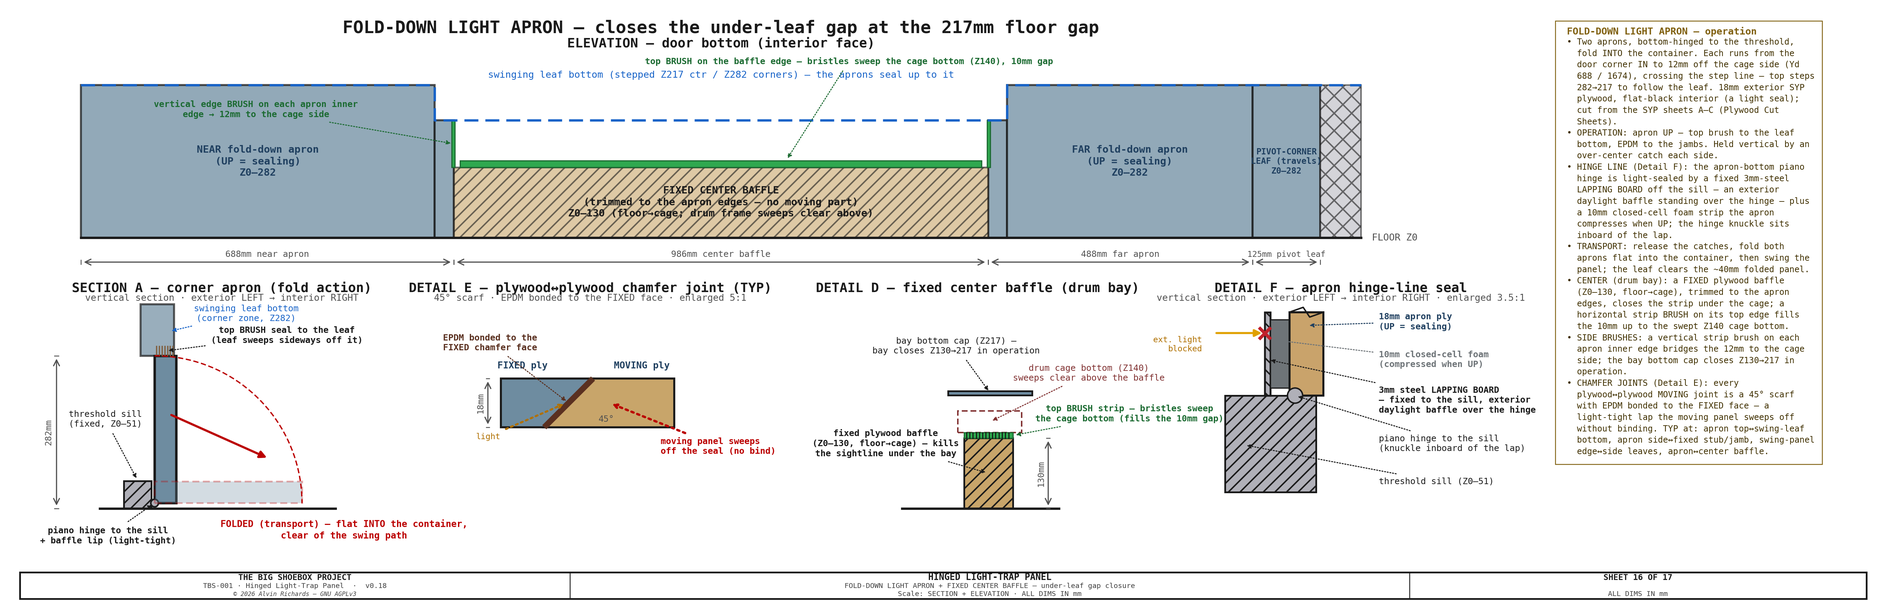
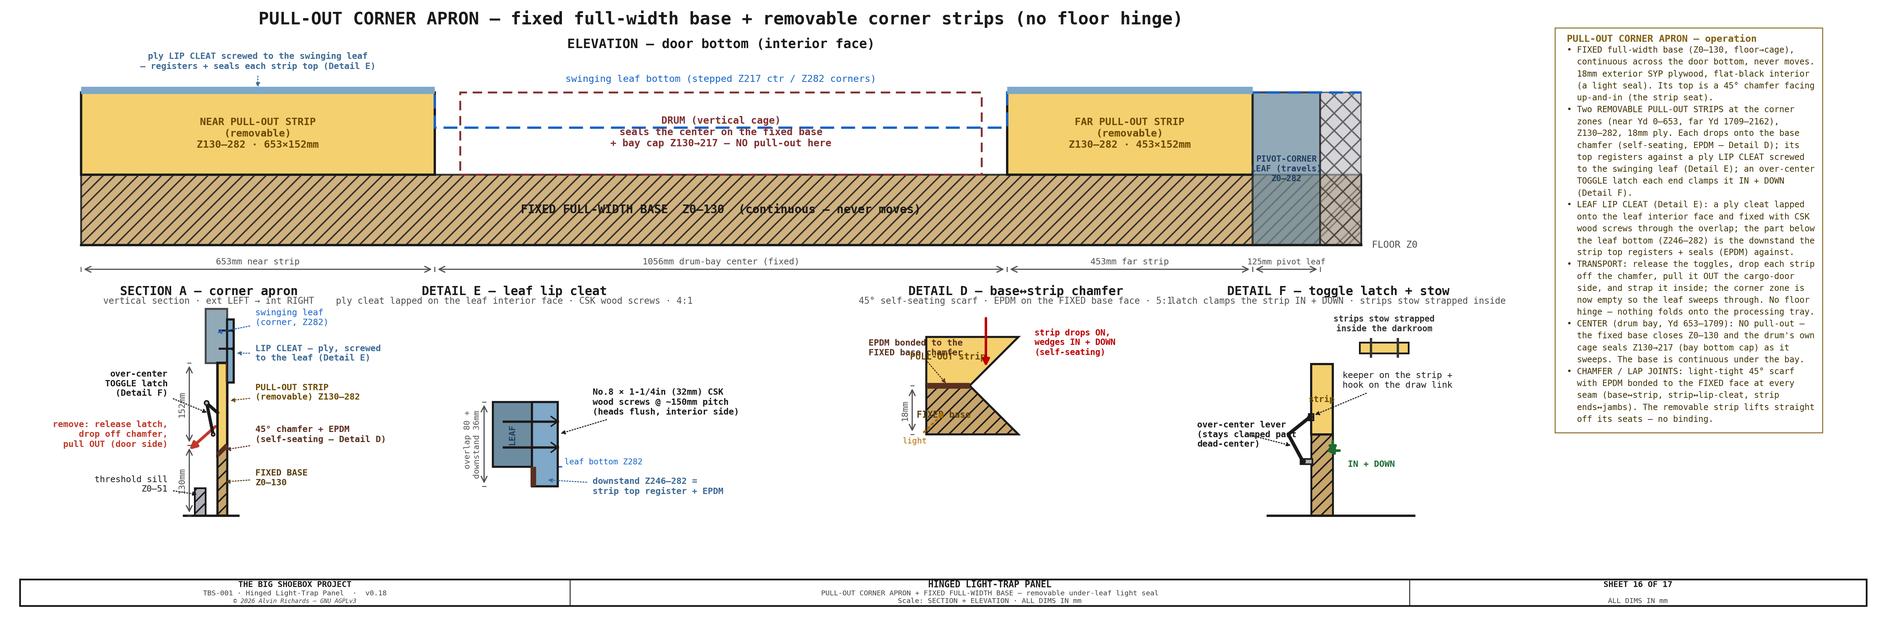
Hinged-panel Sheet 16: redesign as a PULL-OUT corner apron (replaces the fold-down)
Fixed full-width base (Z0-130, continuous) + two removable corner pull-out
strips (Z130-282): each self-seats on the base's 45-deg chamfer (EPDM), its top
registers against a ply lip cleat screwed to the swinging leaf (CSK wood
screws), and an over-center toggle latch clamps it in + down. For the transport
swing the strips pull OUT the cargo-door side and stow strapped inside, so the
leaf sweeps the empty corner zone - no floor hinge, nothing over the processing
tray (the fold-down reached X310, onto the tray at X280). Drum-bay center keeps
the fixed base + the drum's own sweep.

2D Sheet 16 only. The report narrative, parts.py, costing, shopping/cost-
breakdown, plywood-cut-sheets and the 3D model still describe the fold-down and
are the owed cascade (RELEASE [Unreleased] + TODO).

diff --git a/src/generators/generate_hingepanel_diagram.py b/src/generators/generate_hingepanel_diagram.py
@@ -2587,23 +2587,33 @@ def sheet15():
 
 
 # ═══════════════════════════════════════════════════════════════════════════════
-# SHEET 16  —  Fold-Down Light Apron (closes the 217mm under-leaf gap that the
-#   floor-gap raise opened). TWO fold-down aprons at the corner zones (bottom-hinged
-#   to the threshold, fold INTO the container for the transport swing) + a FIXED
-#   center baffle under the drum bay (the drum sweeps through, so no moving part).
+# SHEET 16  —  Pull-Out Corner Apron (closes the under-leaf gap at the corner
+#   zones without a floor hinge). A FIXED full-width base (Z0–130, continuous,
+#   never moves) + two REMOVABLE pull-out STRIPS at the corner zones (Z130–282),
+#   each wedged into the base's 45° chamfer (self-seating + EPDM), its top
+#   registered against a ply LIP CLEAT screwed to the swinging leaf, and clamped
+#   by an over-center toggle latch. For the transport swing the strips are
+#   released and pulled OUT (cargo-door side) so the leaf sweeps through the empty
+#   corner zone; they stow strapped inside. The drum-bay center seals on the fixed
+#   base + the drum's own sweep (no pull-out there). This REPLACES the earlier
+#   fold-down apron, which folded onto the processing tray (CORNER_BOT=282 → the
+#   folded leaf reached X310, over the tray at X280).
 # ═══════════════════════════════════════════════════════════════════════════════
 def sheet16():
     from tbs_constants import (PANEL_FLOOR_GAP_SIDE as ATOP, PANEL_FLOOR_GAP as PBOT_CTR,
                                PANEL_CORNER_YD_L as jL, PANEL_CORNER_YD_R as jR, LT_CAGE_BOT,
-                               APRON_IN_L, APRON_IN_R, APRON_CAGE_GAP,
                                DRUM_CAGE_YD_L as cgL, DRUM_CAGE_YD_R as cgR, APRON_FIX_W)
     WID  = PW
-    STUB = WID - APRON_FIX_W     # 2162 — far fold-down apron ends here; beyond it is the TRAVELLING pivot-corner leaf
-    THR  = 51        # threshold sill top Z
-    AT   = 40        # apron thickness (12mm exterior BC plywood, flat-black interior)
-    BAYB = 217       # bay bottom cap Z
-    BAF_TOP = LT_CAGE_BOT - 10   # 130 — baffle top, 10mm under the swept drum-cage bottom (Z140)
-    BRZ  = 51        # threshold top (baffle base)
+    STUB = WID - APRON_FIX_W     # 2162 — far pull-out strip ends here; beyond it is the TRAVELLING pivot-corner leaf
+    THR  = 51                    # threshold sill top Z
+    BASE_TOP = LT_CAGE_BOT - 10  # 130 — fixed base top, 10mm under the swept drum-cage bottom (Z140)
+    SH   = ATOP - BASE_TOP       # 152 — pull-out strip height (base top → corner leaf bottom Z282)
+    BAYB = 217                   # bay bottom cap Z (center)
+
+    C_PULL  = "#F4D06F"          # removable pull-out strip (distinct from fixed ply)
+    C_FIXP  = "#C8A56A"          # fixed plywood base
+    C_CLEAT = "#7FA8C9"          # ply lip cleat (screwed to the leaf)
+    C_EPDM  = "#5A3020"          # EPDM seal
 
     fig, ax = plt.subplots(figsize=(23, 11))
     fig.patch.set_facecolor(BG); ax.set_facecolor(BG)
@@ -2611,162 +2621,181 @@ def sheet16():
     ax.set_xlim(-130, WID + 950)
     ax.set_ylim(-170, 920)
 
-    ax.text(WID / 2, 878, "FOLD-DOWN LIGHT APRON — closes the under-leaf gap at the 217mm floor gap",
+    ax.text(WID / 2, 908, "PULL-OUT CORNER APRON — fixed full-width base + removable corner strips (no floor hinge)",
             ha="center", fontsize=12, fontweight="bold", color=C_OUT, **FONT)
 
     # ══ ELEVATION (Yd–Z) — door-bottom layout, interior face (top band) ══
     ez = 500
-    ax.text(WID / 2, ez + ATOP + 70, "ELEVATION — door bottom (interior face)", ha="center", fontsize=9, fontweight="bold", color=C_OUT, **FONT)
+    ax.text(WID / 2, ez + ATOP + 82, "ELEVATION — door bottom (interior face)", ha="center", fontsize=9, fontweight="bold", color=C_OUT, **FONT)
     ax.plot([0, WID], [ez, ez], color=C_OUT, lw=1.6)
     ax.text(WID + 20, ez, "FLOOR Z0", va="center", ha="left", fontsize=6.5, color=C_DIM, **FONT)
-    # Fold-down aprons — each extends INBOARD past the center-zone step line to a brush gap off the cage
-    # (Yd APRON_IN_L / APRON_IN_R); its top steps 282 (corner) → 217 (center ext) to follow the leaf bottom.
-    for y0, y1, top, lbl in [(0, jL, ATOP, "NEAR fold-down apron"), (jL, APRON_IN_L, PBOT_CTR, None),
-                             (APRON_IN_R, jR, PBOT_CTR, None), (jR, STUB, ATOP, "FAR fold-down apron")]:
-        ax.add_patch(Rectangle((y0, ez), y1 - y0, top, fc=C_PLASTIC, ec=C_OUT, lw=1.4, alpha=0.75))
-        if lbl:
-            ax.text((y0 + y1) / 2, ez + top * 0.5, f"{lbl}\n(UP = sealing)\nZ0–{int(top)}", ha="center", va="center",
-                    fontsize=7, fontweight="bold", color="#204060", **FONT)
-    # pivot-corner leaf TRAVELS with the swinging panel up to the pivot line; tiny fixed past-pivot at the wall
+    # (1) FIXED full-width base Z0–130 — continuous, never moves
+    ax.add_patch(Rectangle((0, ez), WID, BASE_TOP, fc=C_FIXP, ec=C_OUT, lw=1.3, hatch="///", alpha=0.85))
+    ax.text(WID / 2, ez + BASE_TOP * 0.5, f"FIXED FULL-WIDTH BASE  Z0–{int(BASE_TOP)}  (continuous — never moves)",
+            ha="center", va="center", fontsize=8, fontweight="bold", color=C_OUT, **FONT)
+    # (2) PULL-OUT corner strips Z130–282 (removable) at the two corner zones
+    for y0, y1, lbl in [(0, jL, "NEAR PULL-OUT STRIP"), (jR, STUB, "FAR PULL-OUT STRIP")]:
+        ax.add_patch(Rectangle((y0, ez + BASE_TOP), y1 - y0, SH, fc=C_PULL, ec=C_OUT, lw=1.6))
+        ax.text((y0 + y1) / 2, ez + BASE_TOP + SH * 0.5,
+                f"{lbl}\n(removable)\nZ{int(BASE_TOP)}–{int(ATOP)} · {int(y1 - y0)}×{int(SH)}mm",
+                ha="center", va="center", fontsize=7, fontweight="bold", color="#6B4A00", **FONT)
+    # (3) CENTER drum bay — drum (vertical cage) seals Z130→217; NO pull-out here
+    ax.add_patch(Rectangle((cgL, ez + BASE_TOP), cgR - cgL, SH, fc="none", ec="#803030", lw=1.3, ls=(0, (5, 3))))
+    ax.text((cgL + cgR) / 2, ez + BASE_TOP + SH * 0.52,
+            "DRUM (vertical cage)\nseals the center on the fixed base\n+ bay cap Z130→217 — NO pull-out here",
+            ha="center", va="center", fontsize=6.8, fontweight="bold", color="#803030", **FONT)
+    # pivot-corner leaf TRAVELS with the swinging panel up to the pivot line; fixed past-pivot stub at the wall
     ax.add_patch(Rectangle((STUB, ez), PIVOT_YD - STUB, ATOP, fc=C_PLASTIC, ec=C_OUT, lw=1.4, alpha=0.75))
     ax.text((STUB + PIVOT_YD) / 2, ez + ATOP * 0.5, f"PIVOT-CORNER\nLEAF (travels)\nZ0–{int(ATOP)}", ha="center", va="center",
             fontsize=5.8, fontweight="bold", color="#204060", **FONT)
     ax.add_patch(Rectangle((PIVOT_YD, ez), WID - PIVOT_YD, ATOP, fc="#B8B8C0", ec=C_OUT, lw=1.0, hatch="xx", alpha=0.6))
-    ax.add_patch(Rectangle((APRON_IN_L, ez), APRON_IN_R - APRON_IN_L, BAF_TOP, fc="#C8A56A", ec=C_OUT, lw=1.2, hatch="///", alpha=0.6))
-    ax.text((APRON_IN_L + APRON_IN_R) / 2, ez + 66, f"FIXED CENTER BAFFLE\n(trimmed to the apron edges — no moving part)\nZ0–{int(BAF_TOP)} (floor→cage; drum frame sweeps clear above)", ha="center", va="center",
-            fontsize=7, fontweight="bold", color=C_OUT, **FONT)
-    # Horizontal strip brush on the baffle top edge → bristles sweep the cage bottom (Z140), 10mm gap.
-    ax.add_patch(Rectangle((cgL, ez + BAF_TOP), cgR - cgL, 12, fc="#2FA84F", ec="#1c6b32", lw=0.8))
-    leader(ax, ((cgL + cgR) / 2 + 120, ez + BAF_TOP + 12), (WID * 0.60, ez + ATOP + 44),
-           "top BRUSH on the baffle edge — bristles sweep the cage bottom (Z140), 10mm gap", col="#1c6b32", fw="bold", fs=6)
-    # Vertical strip brushes on the two apron inner edges → reach APRON_CAGE_GAP to the cage sides.
-    for yb in (APRON_IN_L - 4, APRON_IN_R - 2):
-        ax.add_patch(Rectangle((yb, ez + BAF_TOP), 6, PBOT_CTR - BAF_TOP, fc="#2FA84F", ec="#1c6b32", lw=0.8))
-    leader(ax, (APRON_IN_L, ez + (BAF_TOP + PBOT_CTR) / 2), (jL - 330, ez + PBOT_CTR + 20),
-           f"vertical edge BRUSH on each apron inner\nedge → {APRON_CAGE_GAP}mm to the cage side", col="#1c6b32", fw="bold", fs=6)
+    # ply LIP CLEAT screwed to the leaf — runs the corner zones, registers each strip top (Z286 band)
+    for y0, y1 in [(0, jL), (jR, STUB)]:
+        ax.plot([y0, y1], [ez + ATOP + 4, ez + ATOP + 4], color=C_CLEAT, lw=5, solid_capstyle="butt", zorder=6)
+    leader(ax, (jL * 0.5, ez + ATOP + 4), (jL * 0.5, ez + ATOP + 58),
+           "ply LIP CLEAT screwed to the swinging leaf\n— registers + seals each strip top (Detail E)", col="#3C6A96", fw="bold", fs=6)
+    # swinging leaf bottom (stepped Z217 ctr / Z282 corners) — the base + strips seal up to it
     ax.plot([0, jL, jL, jR, jR, WID], [ez + ATOP, ez + ATOP, ez + PBOT_CTR, ez + PBOT_CTR, ez + ATOP, ez + ATOP],
             color="#1763C8", lw=1.6, ls=(0, (6, 3)))
-    ax.text(WID / 2, ez + ATOP + 14, "swinging leaf bottom (stepped Z217 ctr / Z282 corners) — the aprons seal up to it",
+    ax.text(WID / 2, ez + ATOP + 20, "swinging leaf bottom (stepped Z217 ctr / Z282 corners)",
             ha="center", fontsize=6.6, color="#1763C8", **FONT)
-    draw_dim_h(ax, 0, APRON_IN_L, ez - 45, f"{int(APRON_IN_L)}mm near apron", offset=-12, fs=6, font=FONT)
-    draw_dim_h(ax, APRON_IN_L, APRON_IN_R, ez - 45, f"{int(APRON_IN_R - APRON_IN_L)}mm center baffle", offset=-12, fs=6, font=FONT)
-    draw_dim_h(ax, APRON_IN_R, STUB, ez - 45, f"{int(STUB - APRON_IN_R)}mm far apron", offset=-12, fs=6, font=FONT)
+    draw_dim_h(ax, 0, jL, ez - 45, f"{int(jL)}mm near strip", offset=-12, fs=6, font=FONT)
+    draw_dim_h(ax, jL, jR, ez - 45, f"{int(jR - jL)}mm drum-bay center (fixed)", offset=-12, fs=6, font=FONT)
+    draw_dim_h(ax, jR, STUB, ez - 45, f"{int(STUB - jR)}mm far strip", offset=-12, fs=6, font=FONT)
     draw_dim_h(ax, STUB, PIVOT_YD, ez - 45, f"{int(PIVOT_YD - STUB)}mm pivot leaf", offset=-12, fs=5.6, font=FONT)
 
-    # ══ SECTION A (X–Z) — corner apron fold action (bottom-left) ══
-    a0 = 130
+    # ══ SECTION A (X–Z) — corner apron: full stack + removal (bottom-left) ══
+    a0 = 230
+    RX = a0 + 92                 # right label column (interior-side features)
+    LX = a0 - 70                 # left label column (exterior-side features)
     def aA(x, z): return (a0 + x, z)
-    ax.text(a0 + 130, 400, "SECTION A — corner apron (fold action)", ha="center", fontsize=9, fontweight="bold", color=C_OUT, **FONT)
-    ax.text(a0 + 130, 384, "vertical section · exterior LEFT → interior RIGHT", ha="center", fontsize=6.4, color=C_DIM, **FONT)
-    ax.plot([a0 - 95, a0 + 340], [0, 0], color=C_OUT, lw=1.6)
-    ax.add_patch(Rectangle(aA(-51, 0), 51, THR, fc=C_STEEL, ec=C_OUT, lw=1.2, hatch="///"))            # threshold sill
-    leader(ax, aA(-25, THR), aA(-85, 165), "threshold sill\n(fixed, Z0–51)", col=C_OUT, fs=6)
-    ax.add_patch(Rectangle(aA(-20, ATOP), 62, 95, fc=C_PLASTIC, ec=C_OUT, lw=1.4, alpha=0.7))          # leaf bottom (corner)
-    leader(ax, aA(32, ATOP + 45), aA(175, 360), "swinging leaf bottom\n(corner zone, Z282)", col="#1763C8", fs=6)
-    hx, hz = 6, 10
-    ax.add_patch(Rectangle(aA(hx, hz), AT, ATOP - hz, fc=C_PLASTIC, ec=C_OUT, lw=1.7))                 # apron UP
-    for bxx in range(int(a0 + hx + 4), int(a0 + hx + AT - 2), 5):                                      # top brush seal
-        ax.plot([bxx, bxx], [ATOP, ATOP + 17], color="#806040", lw=0.9)
-    leader(ax, aA(hx + AT / 2, ATOP + 9), aA(250, 320), "top BRUSH seal to the leaf\n(leaf sweeps sideways off it)", col=C_OUT, fw="bold", fs=6)
-    ax.add_patch(Circle(aA(hx, hz), 7, fc=C_STEEL, ec=C_OUT, lw=1.1))                                  # bottom hinge
-    leader(ax, aA(hx, hz), aA(-80, -50), "piano hinge to the sill\n+ baffle lip (light-tight)", col=C_OUT, fw="bold", fs=6)
-    R = ATOP - hz
-    th = np.linspace(np.pi / 2, 0, 40)                                                                 # fold arc (top edge)
-    ax.plot(a0 + hx + R * np.cos(th), hz + R * np.sin(th), color="#B00", lw=0.9, ls=(0, (4, 2)))
-    ax.annotate("", xy=aA(hx + R * 0.78, hz + R * 0.30), xytext=aA(hx + 26, ATOP * 0.62),
-                arrowprops=dict(arrowstyle="-|>", color="#B00", lw=1.5))
-    ax.add_patch(Rectangle(aA(hx, hz), R, AT, fc=C_PLASTIC, ec="#B00", lw=1.2, ls=(0, (4, 2)), alpha=0.30))  # folded (transport)
-    ax.text(a0 + hx + R * 0.55 + 200, hz - AT - 25, "FOLDED (transport) — flat INTO the container,\nclear of the swing path",
-            ha="center", fontsize=6.3, color="#B00", fontweight="bold", **FONT)
-    draw_dim_v(ax, a0 - 175, 0, ATOP, f"{int(ATOP)}mm", offset=12, fs=6, font=FONT)
+    ax.text(a0 + 6, 408, "SECTION A — corner apron", ha="center", fontsize=8.5, fontweight="bold", color=C_OUT, **FONT)
+    ax.text(a0 + 6, 392, "vertical section · ext LEFT → int RIGHT", ha="center", fontsize=6.2, color=C_DIM, **FONT)
+    ax.plot([a0 - 40, a0 + 60], [0, 0], color=C_OUT, lw=1.6)
+    ax.add_patch(Rectangle(aA(-20, 0), 20, THR, fc=C_STEEL, ec=C_OUT, lw=1.2, hatch="///"))            # threshold sill
+    # fixed base Z0–130, top 45° chamfer (exterior low → interior high)
+    ax.add_patch(Polygon([aA(22, 0), aA(40, 0), aA(40, BASE_TOP), aA(22, BASE_TOP - 18)], closed=True,
+                         fc=C_FIXP, ec=C_OUT, lw=1.5, hatch="///", zorder=3))
+    # pull-out strip Z130–282, bottom wedged on the chamfer
+    ax.add_patch(Polygon([aA(22, BASE_TOP - 18), aA(40, BASE_TOP), aA(40, ATOP), aA(22, ATOP)], closed=True,
+                         fc=C_PULL, ec=C_OUT, lw=1.7, zorder=4))
+    ax.plot([aA(22, BASE_TOP - 18)[0], aA(40, BASE_TOP)[0]], [aA(22, BASE_TOP - 18)[1], aA(40, BASE_TOP)[1]],
+            color=C_EPDM, lw=3.2, solid_capstyle="butt", zorder=5)                                     # EPDM on chamfer
+    # swinging leaf body (corner, Z282+)
+    ax.add_patch(Rectangle(aA(0, ATOP), 40, 100, fc=C_PLASTIC, ec=C_OUT, lw=1.3, alpha=0.75))
+    # ply LIP CLEAT lapped on the leaf interior face (X40), overlap Z282–362 screwed, downstand Z246–282
+    ax.add_patch(Rectangle(aA(40, 246), 12, 116, fc=C_CLEAT, ec=C_OUT, lw=1.5, zorder=6))
+    for z in (308, 342):                                                                               # CSK wood screws in the OVERLAP
+        ax.plot([aA(52, z)[0], aA(26, z)[0]], [z, z], color=C_OUT, lw=1.4, zorder=7)
+        ax.plot([aA(52, z + 3)[0], aA(47, z)[0]], [z + 3, z], color=C_OUT, lw=1.0, zorder=7)
+        ax.plot([aA(52, z - 3)[0], aA(47, z)[0]], [z - 3, z], color=C_OUT, lw=1.0, zorder=7)
+    ax.add_patch(Rectangle(aA(37, 246), 3, 36, fc=C_EPDM, ec="none", zorder=6))                        # EPDM strip↔lip downstand
+    # over-center toggle latch (clamps strip IN against the lip + DOWN on the chamfer)
+    ax.plot([aA(22, 190)[0], aA(2, 208)[0], aA(14, 150)[0]], [190, 208, 150], color=C_OUT, lw=2.2, zorder=7)
+    ax.add_patch(Circle(aA(2, 208), 4, fc=C_STEEL, ec=C_OUT, zorder=8)); ax.add_patch(Circle(aA(14, 150), 3, fc=C_STEEL, ec=C_OUT, zorder=8))
+    # removal action arrow (pull OUT, cargo-door side)
+    ax.annotate("", xy=aA(-34, 118), xytext=aA(22, 168), arrowprops=dict(arrowstyle="-|>", color="#C0392B", lw=2.0))
 
-    # ══ DETAIL D (X–Z) — fixed center baffle under the bay (bottom-right) ══
-    d0 = 1560
-    def dD(x, z): return (d0 + x, z)
-    ax.text(d0 + 95, 400, "DETAIL D — fixed center baffle (drum bay)", ha="center", fontsize=9, fontweight="bold", color=C_OUT, **FONT)
-    ax.plot([d0 - 45, d0 + 245], [0, 0], color=C_OUT, lw=1.6)
-    ax.add_patch(Rectangle(dD(40, BAYB - 8), 155, 8, fc=C_PLASTIC, ec=C_OUT, lw=1.2))                  # bay bottom cap Z217
-    leader(ax, dD(118, BAYB - 4), dD(55, 300), "bay bottom cap (Z217) —\nbay closes Z130→217 in operation", col=C_OUT, fs=6)
-    ax.add_patch(Rectangle(dD(58, LT_CAGE_BOT), 118, 40, fc="none", ec="#803030", lw=1.0, ls=(0, (4, 2))))   # drum cage ghost (bottom beam)
-    leader(ax, dD(117, LT_CAGE_BOT + 20), dD(300, 250), f"drum cage bottom (Z{int(LT_CAGE_BOT)})\nsweeps clear above the baffle", col="#803030", fs=6)
-    ax.add_patch(Rectangle(dD(70, 0), 90, BAF_TOP, fc="#C8A56A", ec=C_OUT, lw=1.2, hatch="///"))      # fixed plywood baffle Z0..130 (floor→cage)
-    leader(ax, dD(115, BAF_TOP / 2), dD(-75, 120), f"fixed plywood baffle\n(Z0–{int(BAF_TOP)}, floor→cage) — kills\nthe sightline under the bay", col=C_OUT, fw="bold", fs=6)
-    # horizontal strip brush on the baffle top edge — fills the 10mm gap up to the swept cage bottom
-    ax.add_patch(Rectangle(dD(70, BAF_TOP), 90, LT_CAGE_BOT - BAF_TOP, fc="#2FA84F", ec="#1c6b32", lw=0.8))
-    for bx in range(int(dD(74, 0)[0]), int(dD(158, 0)[0]), 6):
-        ax.plot([bx, bx], [BAF_TOP, LT_CAGE_BOT], color="#141414", lw=0.7)
-    leader(ax, dD(160, (BAF_TOP + LT_CAGE_BOT) / 2), dD(375, 175), "top BRUSH strip — bristles sweep\nthe cage bottom (fills the 10mm gap)", col="#1c6b32", fw="bold", fs=6)
-    draw_dim_v(ax, d0 + 225, 0, BAF_TOP, f"{int(BAF_TOP)}mm", offset=10, fs=6, font=FONT)
+    # — right column (interior-side features) —
+    leader(ax, aA(16, ATOP + 55), (RX, 366), "swinging leaf\n(corner, Z282)", col="#1763C8", fs=6, ha="left")
+    leader(ax, aA(52, 300), (RX, 300), "LIP CLEAT — ply, screwed\nto the leaf (Detail E)", col="#3C6A96", fw="bold", fs=6, ha="left")
+    leader(ax, aA(40, 212), (RX, 228), "PULL-OUT STRIP\n(removable) Z130–282", col="#6B4A00", fw="bold", fs=6, ha="left")
+    leader(ax, aA(32, BASE_TOP - 9), (RX, 150), "45° chamfer + EPDM\n(self-seating — Detail D)", col=C_EPDM, fw="bold", fs=6, ha="left")
+    leader(ax, aA(31, 62), (RX, 70), f"FIXED BASE\nZ0–{int(BASE_TOP)}", col="#5A3F10", fw="bold", fs=6, ha="left")
+    # — left column (exterior-side features) —
+    leader(ax, aA(8, 188), (LX, 244), "over-center\nTOGGLE latch\n(Detail F)", col=C_OUT, fw="bold", fs=6, ha="right")
+    ax.text(LX, 150, "remove: release latch,\ndrop off chamfer,\npull OUT (door side)", ha="right", va="center",
+            fontsize=6, fontweight="bold", color="#C0392B", **FONT)
+    leader(ax, aA(-10, 38), (LX, 58), "threshold sill\nZ0–51", col=C_OUT, fs=6, ha="right")
+    draw_dim_v(ax, a0 - 30, 0, BASE_TOP, f"{int(BASE_TOP)}mm", offset=-10, fs=6, font=FONT)
+    draw_dim_v(ax, a0 - 30, BASE_TOP, ATOP, f"{int(SH)}mm", offset=-10, fs=6, font=FONT)
 
-    # ══ DETAIL E (enlarged 5:1) — plywood↔plywood 45° chamfer joint (TYP of all moving plywood joints) ══
-    e0, ebz, S = 775, 150, 5.0
-    def eE(x, z): return (e0 + x * S, ebz + z * S)
-    T, xc, BL = 18, 16, 30          # 18mm ply · scarf start · panel run each side
-    ax.text(e0 + 33 * S, 400, "DETAIL E — plywood↔plywood chamfer joint (TYP)", ha="center", fontsize=9, fontweight="bold", color=C_OUT, **FONT)
-    ax.text(e0 + 33 * S, 384, "45° scarf · EPDM bonded to the FIXED face · enlarged 5:1", ha="center", fontsize=6.4, color=C_DIM, **FONT)
-    A = [eE(0, 0), eE(xc, 0), eE(xc + T, T), eE(0, T)]                       # fixed panel (left)
-    B = [eE(xc, 0), eE(xc + T + BL, 0), eE(xc + T + BL, T), eE(xc + T, T)]   # moving panel (right)
-    ax.fill([p[0] for p in A], [p[1] for p in A], fc=C_PLASTIC, ec=C_OUT, lw=1.4, zorder=3)
-    ax.fill([p[0] for p in B], [p[1] for p in B], fc="#C8A56A", ec=C_OUT, lw=1.4, zorder=3)
-    ax.plot([eE(xc, 0)[0], eE(xc + T, T)[0]], [eE(xc, 0)[1], eE(xc + T, T)[1]],
-            color="#5A3020", lw=4, solid_capstyle="butt", zorder=4)         # EPDM on the fixed scarf face
-    leader(ax, eE(xc + T / 2, T / 2), (e0 - 20, ebz + T * S + 66), "EPDM bonded to the\nFIXED chamfer face", col="#5A3020", fw="bold", fs=6)
-    ax.text(*eE(xc / 2, T + 3), "FIXED ply", ha="center", va="bottom", fontsize=6.4, fontweight="bold", color="#204060", **FONT)
-    ax.text(*eE(xc + T + BL * 0.6, T + 3), "MOVING ply", ha="center", va="bottom", fontsize=6.4, fontweight="bold", color="#204060", **FONT)
-    bx, bz = eE(xc + T + 6, T / 2)                                          # moving panel sweeps off along the 45° normal
-    leader(ax, (bx, bz), (bx + 95, bz - 80), "moving panel sweeps\noff the seal (no bind)",
-           col="#B00", fw="bold", fs=6, ha="left", arrow_style="-|>", lw=1.6)
-    leader(ax, (eE(xc + T / 2, T / 2)[0] - 4, ebz + T * S * 0.5), (e0 - 46, ebz + T * S * 0.5 - 55),
-           "light", col="#B07000", fs=5.6, ha="left", va="top", arrow_style="-|>", lw=1.4)   # light ray blocked at the diagonal lap
-    draw_dim_v(ax, e0 - 24, ebz, ebz + T * S, "18mm", offset=10, fs=6, font=FONT)
-    ax.text(*eE(xc + T + 2, 1.5), "45°", ha="left", va="bottom", fontsize=6, color=C_DIM, **FONT)
+    # ══ DETAIL D (enlarged 5:1) — base↔strip 45° self-seating chamfer joint ══
+    d0, dbz, SD = 1560, 150, 5.0
+    def dD(x, z): return (d0 + x * SD, dbz + z * SD)
+    T, xc = 18, 16
+    ax.text(d0 + 33 * SD, 408, "DETAIL D — base↔strip chamfer", ha="center", fontsize=8.5, fontweight="bold", color=C_OUT, **FONT)
+    ax.text(d0 + 33 * SD, 392, "45° self-seating scarf · EPDM on the FIXED base face · 5:1", ha="center", fontsize=6.2, color=C_DIM, **FONT)
+    base = [dD(0, 0), dD(xc + T, 0), dD(xc, T), dD(0, T)]                                              # fixed base block, top chamfered
+    strip = [dD(0, T), dD(xc, T), dD(xc + T, 2 * T), dD(0, 2 * T)]                                     # pull-out strip, bottom chamfered
+    ax.fill([p[0] for p in base], [p[1] for p in base], fc=C_FIXP, ec=C_OUT, lw=1.4, hatch="///", zorder=3)
+    ax.fill([p[0] for p in strip], [p[1] for p in strip], fc=C_PULL, ec=C_OUT, lw=1.4, zorder=3)
+    ax.plot([dD(0, T)[0], dD(xc, T)[0]], [dD(0, T)[1], dD(xc, T)[1]], color=C_EPDM, lw=4, solid_capstyle="butt", zorder=4)
+    leader(ax, dD(xc * 0.5, T), (d0 - 20, dbz + T * SD + 70), "EPDM bonded to the\nFIXED base chamfer", col=C_EPDM, fw="bold", fs=6)
+    ax.text(*dD(xc * 0.4, T * 0.4), "FIXED base", ha="center", va="center", fontsize=6.2, fontweight="bold", color="#5A3F10", **FONT)
+    ax.text(*dD(xc * 0.5, T * 1.6), "PULL-OUT strip", ha="center", va="center", fontsize=6.2, fontweight="bold", color="#6B4A00", **FONT)
+    ax.annotate("", xy=dD(xc + 6, T + 6), xytext=dD(xc + 6, 2 * T + 8), arrowprops=dict(arrowstyle="-|>", color="#B00", lw=1.7))
+    ax.text(*dD(xc + T + 6, 2 * T - 2), "strip drops ON,\nwedges IN + DOWN\n(self-seating)", ha="left", va="center",
+            fontsize=5.8, fontweight="bold", color="#B00", **FONT)
+    leader(ax, (dD(xc * 0.5, T)[0] - 2, dbz + T * SD * 0.5), (d0 - 44, dbz + T * SD * 0.5 - 50),
+           "light", col="#B07000", fs=5.6, ha="left", va="top", arrow_style="-|>", lw=1.4)
+    draw_dim_v(ax, d0 - 26, dbz, dbz + T * SD, "18mm", offset=10, fs=6, font=FONT)
 
-    # ══ DETAIL F (enlarged ~3.5:1) — apron hinge-line light seal (exterior lapping board) ══
-    f0, fbz, SF = 2230, 30, 3.5
-    def fF(x, z): return (f0 + x * SF, fbz + z * SF)
-    C_FOAM = "#6E7478"
-    ax.text(f0 + 95, 400, "DETAIL F — apron hinge-line seal", ha="center", fontsize=9, fontweight="bold", color=C_OUT, **FONT)
-    ax.text(f0 + 95, 384, "vertical section · exterior LEFT → interior RIGHT · enlarged 3.5:1", ha="center", fontsize=6.4, color=C_DIM, **FONT)
-    # threshold sill (fixed, Z0–51)
-    ax.add_patch(Rectangle(fF(-34, 0), 48 * SF, THR * SF, fc=C_STEEL, ec=C_OUT, lw=1.2, hatch="///"))
-    # fixed EXTERIOR lapping board — 3mm steel off the sill, standing up as the daylight baffle (z 51..101)
-    ax.add_patch(Rectangle(fF(-13, THR), 3 * SF, 44 * SF, fc=C_STEEL, ec=C_OUT, lw=1.3, hatch="\\\\\\"))
-    # 10mm closed-cell foam, compressed between the lap and the apron exterior face
-    ax.add_patch(Rectangle(fF(-10, THR + 4), 10 * SF, 36 * SF, fc=C_FOAM, ec=C_OUT, lw=0.8))
-    # apron (18mm ply, UP = sealing) — interior side of the hinge, with a break at the top
-    ax.add_patch(Rectangle(fF(0, THR), 18 * SF, 44 * SF, fc=C_WOOD, ec=C_OUT, lw=1.4))
-    _bx0, _bx1, _bzt = fF(0, 95)[0], fF(18, 95)[0], fF(0, 95)[1]
-    ax.plot([_bx0, (_bx0 + _bx1) / 2 - 6, (_bx0 + _bx1) / 2 + 6, _bx1], [_bzt, _bzt + 9, _bzt - 9, _bzt], color=C_OUT, lw=1.0)
-    # piano hinge knuckle (inboard of the lap), at the apron bottom on the sill
-    ax.add_patch(Circle(fF(3, THR), 4.0 * SF, fc="#B0B0B8", ec=C_OUT, lw=1.0))
-    # ext. light ray blocked at the lapping board
-    ax.annotate("", xy=fF(-13, 84), xytext=fF(-40, 84), arrowprops=dict(arrowstyle="-|>", color="#E0A000", lw=1.4))
-    ax.plot(*fF(-13, 84), marker="x", ms=8, mew=2.2, color="#C0202A")
-    ax.text(*fF(-46, 78), "ext. light\nblocked", ha="right", va="center", fontsize=5.6, color="#B07000", **FONT)
-    # labels (left-aligned leader column to the right — interior side)
-    _lx = f0 + 165
-    leader(ax, fF(9, 88), (_lx, fbz + 315), "18mm apron ply\n(UP = sealing)", col="#204060", fw="bold", fs=6, ha="left")
-    leader(ax, fF(-5, 80), (_lx, fbz + 245), "10mm closed-cell foam\n(compressed when UP)", col=C_FOAM, fw="bold", fs=6, ha="left")
-    leader(ax, fF(-11.5, 70), (_lx, fbz + 170), "3mm steel LAPPING BOARD\n— fixed to the sill, exterior\ndaylight baffle over the hinge", col=C_OUT, fw="bold", fs=6, ha="left")
-    leader(ax, fF(3, THR), (_lx, fbz + 90), "piano hinge to the sill\n(knuckle inboard of the lap)", col=C_OUT, fs=6, ha="left")
-    leader(ax, fF(-24, 25), (_lx, fbz + 20), "threshold sill (Z0–51)", col=C_OUT, fs=6, ha="left")
+    # ══ DETAIL E (enlarged 4:1) — ply LIP CLEAT lapped on the leaf + CSK wood screws ══
+    e0, ebz, SE = 760, 90, 4.0
+    def eE(x, z): return (e0 + x * SE, ebz + z * SE)
+    LT_ = 18                                                                                           # leaf-edge ply thickness
+    CT  = 12                                                                                           # cleat thickness
+    ax.text(e0 + 10 * SE, 408, "DETAIL E — leaf lip cleat", ha="center", fontsize=8.5, fontweight="bold", color=C_OUT, **FONT)
+    ax.text(e0 + 10 * SE, 392, "ply cleat lapped on the leaf interior face · CSK wood screws · 4:1", ha="center", fontsize=6.2, color=C_DIM, **FONT)
+    # leaf edge (interior-face ply), bottom at Z282-datum (z=0 here = leaf bottom)
+    ax.add_patch(Rectangle(eE(0, 0), LT_ * SE, 30 * SE, fc=C_PLASTIC, ec=C_OUT, lw=1.4, zorder=3))     # leaf, above the bottom line
+    ax.plot([eE(0, 0)[0], eE(LT_ + CT + 2, 0)[0]], [eE(0, 0)[1], eE(0, 0)[1]], color="#1763C8", lw=0.9, ls=(0, (4, 3)), zorder=2)
+    ax.text(*eE(LT_ + CT + 3, 0.5), "leaf bottom Z282", ha="left", va="bottom", fontsize=5.6, color="#1763C8", **FONT)
+    # lip cleat lapped on the interior face (x = LT_..LT_+CT): overlap z 0..18 (screwed), downstand z −9..0
+    ax.add_patch(Rectangle(eE(LT_, -9), CT * SE, (30 + 9) * SE, fc=C_CLEAT, ec=C_OUT, lw=1.5, zorder=4))
+    ax.add_patch(Rectangle(eE(LT_ - 0.5, -9), 2.5 * SE, 9 * SE, fc=C_EPDM, ec="none", zorder=5))       # EPDM on the downstand face
+    for z in (9, 21):                                                                                  # CSK wood screws through the cleat INTO the leaf (overlap only)
+        ax.plot([eE(LT_ + CT, z)[0], eE(5, z)[0]], [eE(0, z)[1], eE(0, z)[1]], color=C_OUT, lw=1.6, zorder=6)
+        ax.plot([eE(LT_ + CT, z)[0], eE(LT_ + CT - 3, z + 2.2)[0]], [eE(0, z)[1], eE(0, z + 2.2)[1]], color=C_OUT, lw=1.0, zorder=6)
+        ax.plot([eE(LT_ + CT, z)[0], eE(LT_ + CT - 3, z - 2.2)[0]], [eE(0, z)[1], eE(0, z - 2.2)[1]], color=C_OUT, lw=1.0, zorder=6)
+    leader(ax, eE(LT_ + CT, 15), (e0 + 46 * SE, ebz + 30 * SE), "No.8 × 1-1/4in (32mm) CSK\nwood screws @ ~150mm pitch\n(heads flush, interior side)", col=C_OUT, fw="bold", fs=6, ha="left")
+    leader(ax, eE(LT_ + CT / 2, -6), (e0 + 46 * SE, ebz - 9 * SE), "downstand Z246–282 =\nstrip top register + EPDM", col="#3C6A96", fw="bold", fs=6, ha="left")
+    ax.text(*eE(LT_ / 2, 15), "LEAF", ha="center", va="center", fontsize=6, fontweight="bold", color="#204060", rotation=90, **FONT)
+    draw_dim_v(ax, e0 - 16, ebz - 9 * SE, ebz + 30 * SE, "overlap 80 +\ndownstand 36mm", offset=-10, fs=5.6, font=FONT)
+
+    # ══ DETAIL F (schematic) — over-center toggle latch + strap stow ══
+    f0 = 2210
+    ax.text(f0 + 110, 408, "DETAIL F — toggle latch + stow", ha="center", fontsize=8.5, fontweight="bold", color=C_OUT, **FONT)
+    ax.text(f0 + 110, 392, "latch clamps the strip IN + DOWN · strips stow strapped inside", ha="center", fontsize=6.2, color=C_DIM, **FONT)
+    ax.plot([f0 - 20, f0 + 250], [0, 0], color=C_OUT, lw=1.6)
+    # base + strip stub (clamped)
+    ax.add_patch(Rectangle((f0 + 60, 0), 40, 150, fc=C_FIXP, ec=C_OUT, lw=1.3, hatch="///"))
+    ax.add_patch(Rectangle((f0 + 60, 150), 40, 130, fc=C_PULL, ec=C_OUT, lw=1.5))
+    ax.text(f0 + 80, 215, "strip", ha="center", va="center", fontsize=6, fontweight="bold", color="#6B4A00", **FONT)
+    # toggle: base plate on the fixed base exterior, lever, hook over a keeper on the strip
+    ax.add_patch(Rectangle((f0 + 40, 95), 22, 10, fc=C_STEEL, ec=C_OUT, lw=1.1))                       # mount plate
+    ax.add_patch(Circle((f0 + 45, 100), 4, fc=C_STEEL, ec=C_OUT, lw=1.0))                              # pivot
+    ax.plot([f0 + 45, f0 + 18, f0 + 58], [100, 150, 182], color=C_OUT, lw=2.4)                         # handle + draw link
+    ax.add_patch(Circle((f0 + 58, 182), 3.5, fc=C_STEEL, ec=C_OUT, lw=1.0))                            # hook on the strip keeper
+    ax.add_patch(Rectangle((f0 + 56, 176), 8, 12, fc="none", ec=C_OUT, lw=1.2))                        # keeper on the strip
+    leader(ax, (f0 + 28, 128), (f0 - 150, 150), "over-center lever\n(stays clamped past\ndead-center)", col=C_OUT, fw="bold", fs=6, ha="left")
+    leader(ax, (f0 + 62, 184), (f0 + 118, 250), "keeper on the strip +\nhook on the draw link", col=C_OUT, fs=6, ha="left")
+    # arrows: strip driven IN + DOWN (placed below the strip, clear of the lever)
+    ax.annotate("", xy=(f0 + 82, 120), xytext=(f0 + 118, 120), arrowprops=dict(arrowstyle="-|>", color="#1c6b32", lw=1.8))
+    ax.annotate("", xy=(f0 + 100, 108), xytext=(f0 + 100, 142), arrowprops=dict(arrowstyle="-|>", color="#1c6b32", lw=1.8))
+    ax.text(f0 + 128, 95, "IN + DOWN", ha="left", va="center", fontsize=6, fontweight="bold", color="#1c6b32", **FONT)
+    # stow icon
+    ax.add_patch(Rectangle((f0 + 150, 300), 90, 20, fc=C_PULL, ec=C_OUT, lw=1.2))
+    for sx in (f0 + 170, f0 + 220):
+        ax.plot([sx, sx], [294, 326], color="#333", lw=1.6)
+    ax.text(f0 + 195, 338, "strips stow strapped\ninside the darkroom", ha="center", va="bottom", fontsize=5.8, fontweight="bold", color="#333", **FONT)
 
     # ══ notes ══
     draw_notes(ax, [
-        "FOLD-DOWN LIGHT APRON — operation",
-        f"• Two aprons, bottom-hinged to the threshold, fold INTO the container. Each runs from the door corner IN to {int(APRON_CAGE_GAP)}mm off the cage side (Yd {int(APRON_IN_L)} / {int(APRON_IN_R)}), crossing the step line — top steps 282→217 to follow the leaf. 18mm exterior SYP plywood, flat-black interior (a light seal); cut from the SYP sheets A–C (Plywood Cut Sheets).",
-        "• OPERATION: apron UP — top brush to the leaf bottom, EPDM to the jambs. Held vertical by an over-center catch each side.",
-        "• HINGE LINE (Detail F): the apron-bottom piano hinge is light-sealed by a fixed 3mm-steel LAPPING BOARD off the sill — an exterior daylight baffle standing over the hinge — plus a 10mm closed-cell foam strip the apron compresses when UP; the hinge knuckle sits inboard of the lap.",
-        "• TRANSPORT: release the catches, fold both aprons flat into the container, then swing the panel; the leaf clears the ~40mm folded panel.",
-        "• CENTER (drum bay): a FIXED plywood baffle (Z0–130, floor→cage), trimmed to the apron edges, closes the strip under the cage; a horizontal strip BRUSH on its top edge fills the 10mm up to the swept Z140 cage bottom.",
-        f"• SIDE BRUSHES: a vertical strip brush on each apron inner edge bridges the {int(APRON_CAGE_GAP)}mm to the cage side; the bay bottom cap closes Z130→217 in operation.",
-        "• CHAMFER JOINTS (Detail E): every plywood↔plywood MOVING joint is a 45° scarf with EPDM bonded to the FIXED face — a light-tight lap the moving panel sweeps off without binding. TYP at: apron top↔swing-leaf bottom, apron side↔fixed stub/jamb, swing-panel edge↔side leaves, apron↔center baffle.",
-    ], WID + 380, 890, spacing=21, fs=5.8, title_fs=6.6, color="#403000",
+        "PULL-OUT CORNER APRON — operation",
+        f"• FIXED full-width base (Z0–{int(BASE_TOP)}, floor→cage), continuous across the door bottom, never moves. 18mm exterior SYP plywood, flat-black interior (a light seal). Its top is a 45° chamfer facing up-and-in (the strip seat).",
+        f"• Two REMOVABLE PULL-OUT STRIPS at the corner zones (near Yd 0–{int(jL)}, far Yd {int(jR)}–{int(STUB)}), Z{int(BASE_TOP)}–{int(ATOP)}, 18mm ply. Each drops onto the base chamfer (self-seating, EPDM — Detail D); its top registers against a ply LIP CLEAT screwed to the swinging leaf (Detail E); an over-center TOGGLE latch each end clamps it IN + DOWN (Detail F).",
+        "• LEAF LIP CLEAT (Detail E): a ply cleat lapped onto the leaf interior face and fixed with CSK wood screws through the overlap; the part below the leaf bottom (Z246–282) is the downstand the strip top registers + seals (EPDM) against.",
+        "• TRANSPORT: release the toggles, drop each strip off the chamfer, pull it OUT the cargo-door side, and strap it inside; the corner zone is now empty so the leaf sweeps through. No floor hinge — nothing folds onto the processing tray.",
+        f"• CENTER (drum bay, Yd {int(jL)}–{int(jR)}): NO pull-out — the fixed base closes Z0–{int(BASE_TOP)} and the drum's own cage seals Z{int(BASE_TOP)}→{int(BAYB)} (bay bottom cap) as it sweeps. The base is continuous under the bay.",
+        "• CHAMFER / LAP JOINTS: light-tight 45° scarf with EPDM bonded to the FIXED face at every seam (base↔strip, strip↔lip-cleat, strip ends↔jambs). The removable strip lifts straight off its seats — no binding.",
+    ], WID + 380, 890, spacing=22, fs=5.8, title_fs=6.6, color="#403000",
        title_color="#806010", width=450, wrap=49, border_color="#806010", font=FONT)
 
     title_block(ax, "SHEET 16 OF 17",
                 drawing_title="HINGED LIGHT-TRAP PANEL",
-                subtitle="FOLD-DOWN LIGHT APRON + FIXED CENTER BAFFLE — under-leaf gap closure",
+                subtitle="PULL-OUT CORNER APRON + FIXED FULL-WIDTH BASE — removable under-leaf light seal",
                 scale_note="SECTION + ELEVATION · ALL DIMS IN mm",
                 doc_id="TBS-001 · Hinged Light-Trap Panel", height=0.045)
     fig.savefig(os.path.join(DIAGRAMS_DIR, "hingepanel-sheet16.png"), dpi=DIAGRAM_DPI,

diff --git a/RELEASE.md b/RELEASE.md
@@ -26,6 +26,7 @@ is no separate publish step to run afterward.
 
 ## [Unreleased]
 
+- **Hinged-panel Sheet 16 — redesigned the bottom light seal as a PULL-OUT CORNER APRON (replaces the fold-down apron).** The fold-down apron folded INTO the container and, at `CORNER_BOT`=282 (folded reach X310), landed on the processing tray (X280) — it can't hinge to the floor. New design (2D Sheet 16 only, this commit): a **FIXED full-width base** (Z0–130, floor→cage, continuous, never moves) + two **REMOVABLE pull-out STRIPS** at the corner zones (near Yd0–653, far Yd1709–2162; Z130–282, 18mm ply). Each strip drops onto the base's **45° chamfer** (self-seating, EPDM — Detail D), its top registers against a ply **LIP CLEAT** screwed to the swinging leaf (lapped on the leaf interior face + CSK wood screws — Detail E), and an **over-center TOGGLE latch** clamps it in + down (Detail F). For the transport swing the strips are released, pulled OUT the cargo-door side, and **stowed strapped inside** so the leaf sweeps through the empty corner zone (no floor hinge, nothing over the tray). The drum-bay center keeps the fixed base + the drum's own sweep. **Cascade still OWED** (next stage, not in this commit): the 3D model (`generate_lighttrap_model.py` still builds the fold-down apron + DC states), the `hinged-panel-report.md` §6 narrative + parts list, `parts.py` (retire piano-hinges/foam/lapping-board → add pull-out strips + lip cleats + toggle latches + straps, with pricing), `costing.py`, `master-shopping-list.md`, `project-cost-breakdown.md`, `plywood-cut-sheets.md`; plus the removal-path kinematics + the near-stile notch at Yd0.
 - **Hinged-panel report §5.3 — documented WHY the panel bottom is stepped** (corner zones 282mm vs center 217mm). The corners step up to clear the **bare wall-cantilever walkway-bracket legs** (~200mm) on the transport swing with the grate lifted out; the center drum-bay zone has no brackets, so it stays at 217mm. Noted that this corner height (`CORNER_BOT`=`PANEL_FLOOR_GAP_SIDE`) also sets the corner apron height, hence how far the fold-down apron reaches when folded flat — the link behind the apron↔tray collision surfaced in review.
 - **Light-trap 3D — corrected the `context()` floor datum to the cargo-door closing plane (floor-only; walls/ceiling break the DC).** The context floor started at the inner door plane (X=0), which made the drum bay/structure read as "outside" the container. Moved the floor's cargo-door-end edge to the real **closing plane `DOOR_HINGE_X` = −85** (where the ISO doors close, per the door builder), so the door frame + fold-down apron read INSIDE the end and the doors close against it; the **drum bay extends ~805mm beyond** (to `BAY_FRONT_X` = −890) as the DEPLOYED external light-lock vestibule (panel+drum swing 56° in for transport so the ISO doors close — correct). A low-alpha roof + side-wall ghost was tried for orientation but **removed — at any alpha the walls intercept the DC click/swing interaction** (Panel-Swing + Cargo-Door components stop animating) and box in the corner. Kept floor-only. `lighttrap` re-sent + saved + pushed to Sketchfab.
 - **Light-trap apron — fixed-apron experiment REVERTED; the apron stays a fold-down (hinged) design (DECISION, do not re-propose).** A fixed two-ply glued apron was built out across 2D Sheet 16 + 3D + parts/costing/cut-sheet (commits `3721b105..20790300`) to "reduce complexity," then found to **block the panel swing**. The panel swings as a pure **horizontal** rotation (RotZ) about the vertical Ø89 pivot — the leaf bottom stays at Z282 and sweeps **sideways, it never lifts** — so any fixed apron reaching the seal plane where the leaf sweeps (X≥0, inboard of the leaf outer face) sits in the swing path and binds the panel. For a fixed apron the door/cargo-edge clearance (seal forced inboard → X16) and the swing clearance (seal must stay at the leaf outer edge X≤0) are **mutually exclusive** — a 36mm two-ply sandwich can't fit the ~20mm window; the fold-down exists precisely to drop the apron out of the horizontal sweep. Reverted all 16 files to the fold-down state (`9b849c3c`) and recorded the constraint in `generate_lighttrap_model.py` (a prominent DESIGN CONSTRAINT block) + `hinged-panel-report.md` §6 path #3. **Outstanding:** reconcile the remaining 2D/3D apron issues to the hinged design (this seam is the intersection of panel-swing + door frame + cargo-door clearance + drum cage + floor gap).

diff --git a/docs/TODO.md b/docs/TODO.md
@@ -9,6 +9,18 @@ outstanding work, not a history log). Detailed sub-trackers are linked where the
 
 ---
 
+## 🔧 Light-trap PULL-OUT corner apron — cascade from the Sheet 16 redesign (2026-11-05)
+
+Sheet 16 now draws the **pull-out corner apron** (fixed full-width base + removable corner strips, over-center toggle latches, screwed leaf lip cleat, strapped stow) — it REPLACES the fold-down apron. The 2D is committed; the rest of the design still describes the fold-down and must be cascaded onto the pull-out design:
+
+- [ ] **3D model** — `generate_lighttrap_model.py` still builds the fold-down apron + its UP/FOLDED swing-DC states + the −LOCK pre-rotation. Rebuild as: fixed full-width base (always present) + removable corner strips that are simply ABSENT in the swing/transport DC state (no fold arc). Re-send `lighttrap` + `overview` + `construction`; save; push Sketchfab; `manifest.py --update`.
+- [ ] **Report** — `hinged-panel-report.md` §6 path #3 + the §Parts-List narrative + the §summary row: fold-down → pull-out.
+- [ ] **parts.py** — retire the piano-hinges / foam / steel lapping-board / hold-up-catch lot; add removable pull-out strips (ply), ply lip cleats + CSK wood screws, over-center toggle latches (qty = 2 per strip?), and the stow straps. Source + price (SKU-pending per the McMaster rule). Cascade `costing.py`, `master-shopping-list.md`, `project-cost-breakdown.md`.
+- [ ] **plywood-cut-sheets.md** — the apron ply changes from 2 fold-down flaps to a full-width base + 2 strips; re-nest in the SYP offcut, confirm sheet count.
+- [ ] **Open design detail** — the strip removal-path kinematics (clearance to pull OUT past the sill/lapping line) and the **near-stile notch at Yd0** (where the near strip meets the door-frame stile).
+
+---
+
 ## ⏳ Light-trap parts-quote — pending research (2026-08-24)
 
 - [~] **Brush + holder — KEEP AS-IS for now (2026-08-24: "drive to completed blueprints, optimize cost later").** Leave `ll-wiper-brush` (#4 3/16″ est) + `ll-wiper-holder` (Tanis Al est) + the current drawing (Sheets 4/6/7) unchanged — the design is complete; only the price is an estimate. **Cost-optimization candidate for later:** Grainger 18A417 brush + 18A320 holder (confirmed 1/8″ backing pair, 3/4″/19mm trim; only in 10-packs → $270+$259 for a 4-need — expensive as-is; a by-the-foot source would cut it). If adopted later, re-spec the drawing/constants to 1/8″ backing/19mm trim → cascade Sheets 4/6/7/10.

diff --git a/docs/all-diagrams.md b/docs/all-diagrams.md
@@ -176,7 +176,7 @@
 
 ![TBS-001 Hinged Panel — Sheet 15: Bottom Clearance Cross-Section (walkway/cantilever envelope)](assets/hingepanel-sheet15.png)
 
-![TBS-001 Hinged Panel — Sheet 16: Fold-Down Light Apron + Fixed Center Baffle](assets/hingepanel-sheet16.png)
+![TBS-001 Hinged Panel — Sheet 16: Pull-Out Corner Apron + Fixed Full-Width Base](assets/hingepanel-sheet16.png)
 
 ![TBS-001 Hinged Panel — Sheet 17: Transport Lock](assets/hingepanel-sheet17.png)
 
